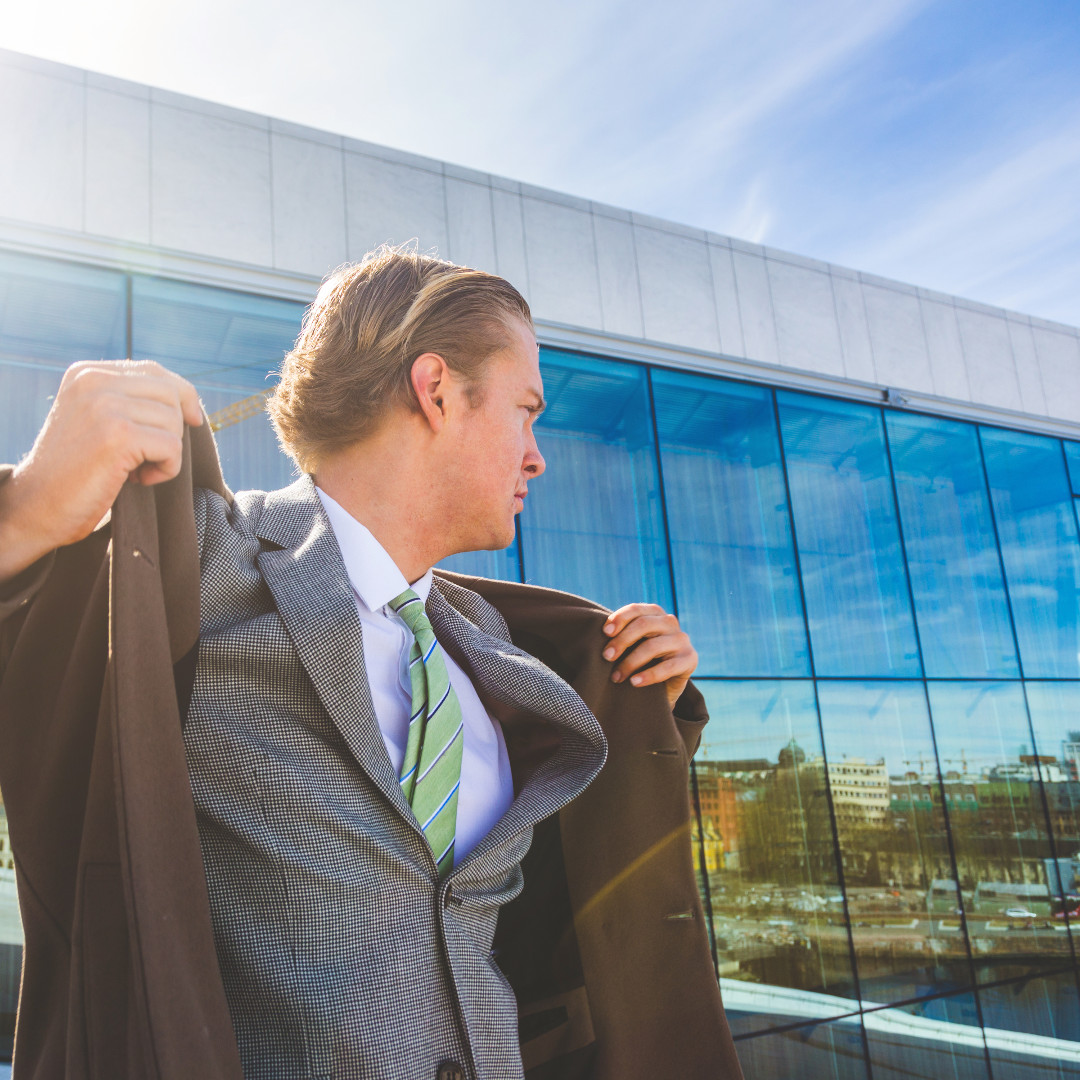
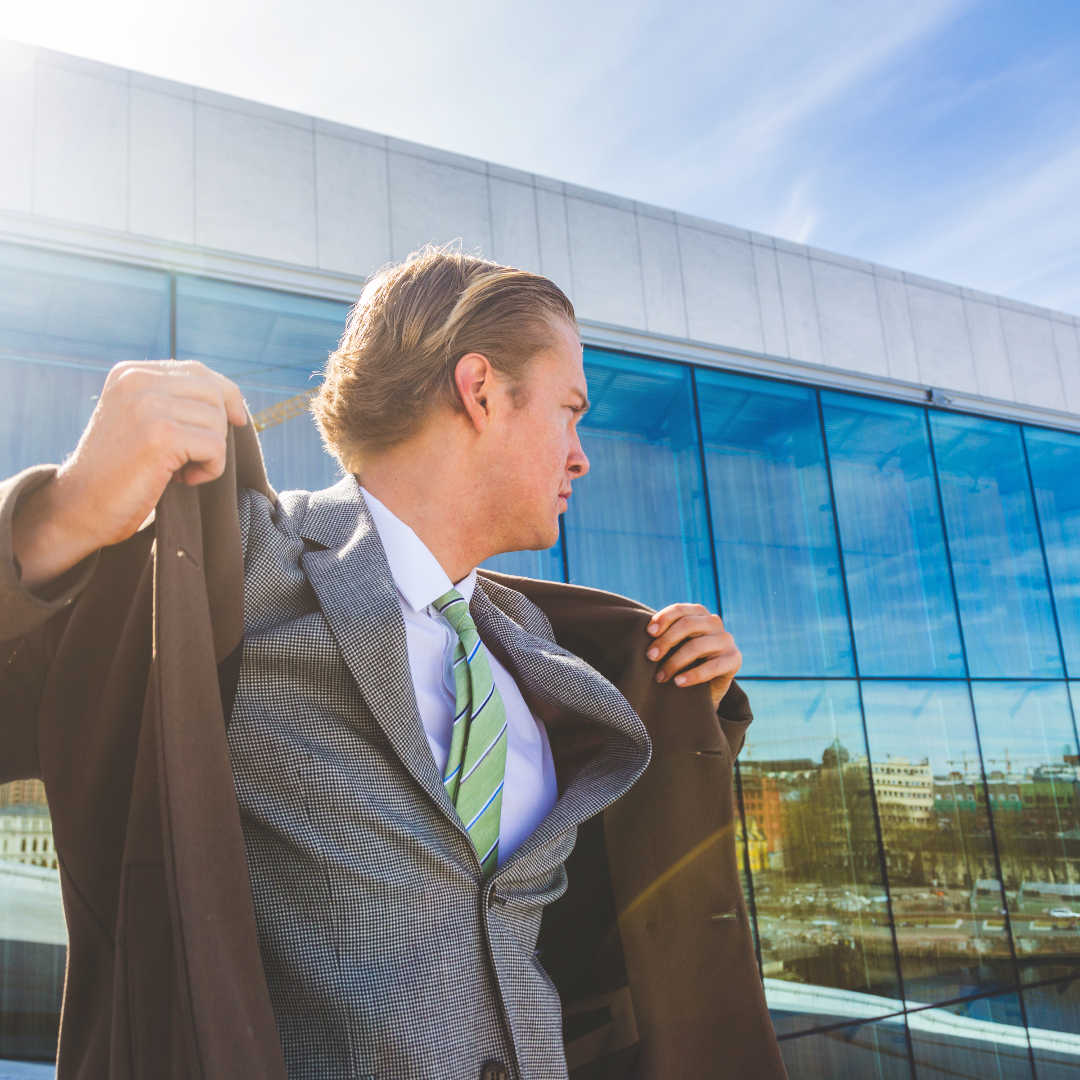
reduced file sizes and added async tag to javascript

diff --git a/m.html b/m.html
@@ -26,7 +26,7 @@
         <div class="w3-bar w3-card-2 w3-animate-top w3-white navbar-accent w3-theme-text-red w3-border-bottom" id="navbar-mobile">
             <a class="w3-bar-item w3-button w3-hover-black w3-right" href="javascript:void(0);" onclick="toggleFunction()" title="Toggle Navigation Menu"><i class="fa fa-bars"></i></a>
             <a href="#hjem" class="w3-bar-item w3-button"><i class="fa fa-home"></i> Hjem</a>
-            <a href="#hjem" class="w3-bar-item w3-right"><img src="img/logo-flat.png" height="32px" alt=""style="margin-top: -10px; margin-bottom: -10px;"></a>
+            <a href="#hjem" class="w3-bar-item w3-right"><img src="img/logo-flat-small.png" height="32px" alt=""style="margin-top: -10px; margin-bottom: -10px;"></a>
         </div>
 
         <!-- Navbar on small screens -->
@@ -105,10 +105,10 @@
                 <a href="http://www.nrk.no/buskerud" target="_blank"><img src="img/nrk_svart.png" alt="NRK Buskerud" style="width:100%"></a>
             </div>
             <div class="w3-col m3 s3">
-                <a href="http://nfdr.no/om-oss-medlemmer/bedrifter-i-naeringsforeningen?details=21626" target="_blank"><img src="img/nfdr.png" alt="Næringsforeningen" style="width:100%"></a>
+                <a href="http://nfdr.no/om-oss-medlemmer/bedrifter-i-naeringsforeningen?details=21626" target="_blank"><img src="img/nfdr-small.png" alt="Næringsforeningen" style="width:100%"></a>
             </div>
             <div class="w3-col m3 s3">
-                <a href="https://www.usn.no/" target="_blank"><img src="img/hsn.jpg" alt="Høgskolen i Sørøst-Norge" style="width:100%;margin-top: 6px;"></a>
+                <a href="https://www.usn.no/" target="_blank"><img src="img/hsn-small.jpg" alt="Høgskolen i Sørøst-Norge" style="width:100%;margin-top: 6px;"></a>
             </div>
         </div>
         <div class="w3-row w3-center">
@@ -225,8 +225,8 @@
         </div>
     </footer>
 
-    <script src="js/ajaxSubmit.js" charset="utf-8" defer></script>
-    <script src="js/mobilenavbar.js" charset="utf-8"></script>
+    <script async src="js/ajaxSubmit.js" charset="utf-8" defer></script>
+    <script async src="js/mobilenavbar.js" charset="utf-8"></script>
 </body>
 
 </html>

diff --git a/index.html b/index.html
@@ -42,7 +42,7 @@
             <a href="#styret" class="w3-bar-item w3-button w3-hide-small"><i class="fa fa-users"></i> Ledelsen</a>
             <a href="#kontakt" class="w3-bar-item w3-button w3-hide-small"><i class="fa fa-envelope"></i> Kontakt oss</a>
             <a href="media.html#profiler" class="w3-bar-item w3-button w3-hide-small"><i class="fa fa-play-circle"></i> Media</a>
-            <a href="#hjem" class="w3-bar-item w3-right"><img src="img/logo-flat.png" height="32px" alt=""style="margin-top: -10px; margin-bottom: -10px;"></a>
+            <a href="#hjem" class="w3-bar-item w3-right"><img src="img/logo-flat-small.png" height="32px" alt=""style="margin-top: -10px; margin-bottom: -10px;"></a>
         </div>
 
         <!-- Navbar on small screens -->
@@ -141,10 +141,10 @@
                 <a href="http://www.nrk.no/buskerud" target="_blank"><img src="img/nrk_svart.png" alt="NRK Buskerud" style="width:100%"></a>
             </div>
             <div class="w3-col m3 s3">
-                <a href="http://nfdr.no/om-oss-medlemmer/bedrifter-i-naeringsforeningen?details=21626" target="_blank"><img src="img/nfdr.png" alt="Næringsforeningen" style="width:100%"></a>
+                <a href="http://nfdr.no/om-oss-medlemmer/bedrifter-i-naeringsforeningen?details=21626" target="_blank"><img src="img/nfdr-small.png" alt="Næringsforeningen" style="width:100%"></a>
             </div>
             <div class="w3-col m3 s3">
-                <a href="https://www.usn.no/" target="_blank"><img src="img/hsn.jpg" alt="Høgskolen i Sørøst-Norge" style="width:100%;margin-top: 17px;"></a>
+                <a href="https://www.usn.no/" target="_blank"><img src="img/hsn-small.jpg" alt="Høgskolen i Sørøst-Norge" style="width:100%;margin-top: 17px;"></a>
             </div>
         </div>
         <div class="w3-row w3-center">
@@ -278,8 +278,8 @@
         </div>
     </footer>
 
-    <script src="js/ajaxSubmit.js" charset="utf-8"></script>
-    <script src="js/navbar.js" charset="utf-8"></script>
+    <script async src="js/ajaxSubmit.js" charset="utf-8"></script>
+    <script async src="js/navbar.js" charset="utf-8"></script>
     <script src="js/checkMobile.js" charset="utf-8"></script>
 </body>
 

diff --git a/media.html b/media.html
@@ -41,7 +41,7 @@
             <a href="index.html#styret" class="w3-bar-item w3-button w3-hide-small"><i class="fa fa-users"></i> Ledelsen</a>
             <a href="index.html#kontakt" class="w3-bar-item w3-button w3-hide-small"><i class="fa fa-envelope"></i> Kontakt oss</a>
             <a href="media.html#profiler" class="w3-bar-item w3-button w3-hide-small"><i class="fa fa-play-circle"></i> Media</a>
-            <a href="index.html#hjem" class="w3-bar-item w3-right"><img src="img/logo-flat.png" height="32px" alt=""style="margin-top: -10px; margin-bottom: -10px;"></a>
+            <a href="index.html#hjem" class="w3-bar-item w3-right"><img src="img/logo-flat-small.png" height="32px" alt=""style="margin-top: -10px; margin-bottom: -10px;"></a>
         </div>
 
         <!-- Navbar on small screens -->
